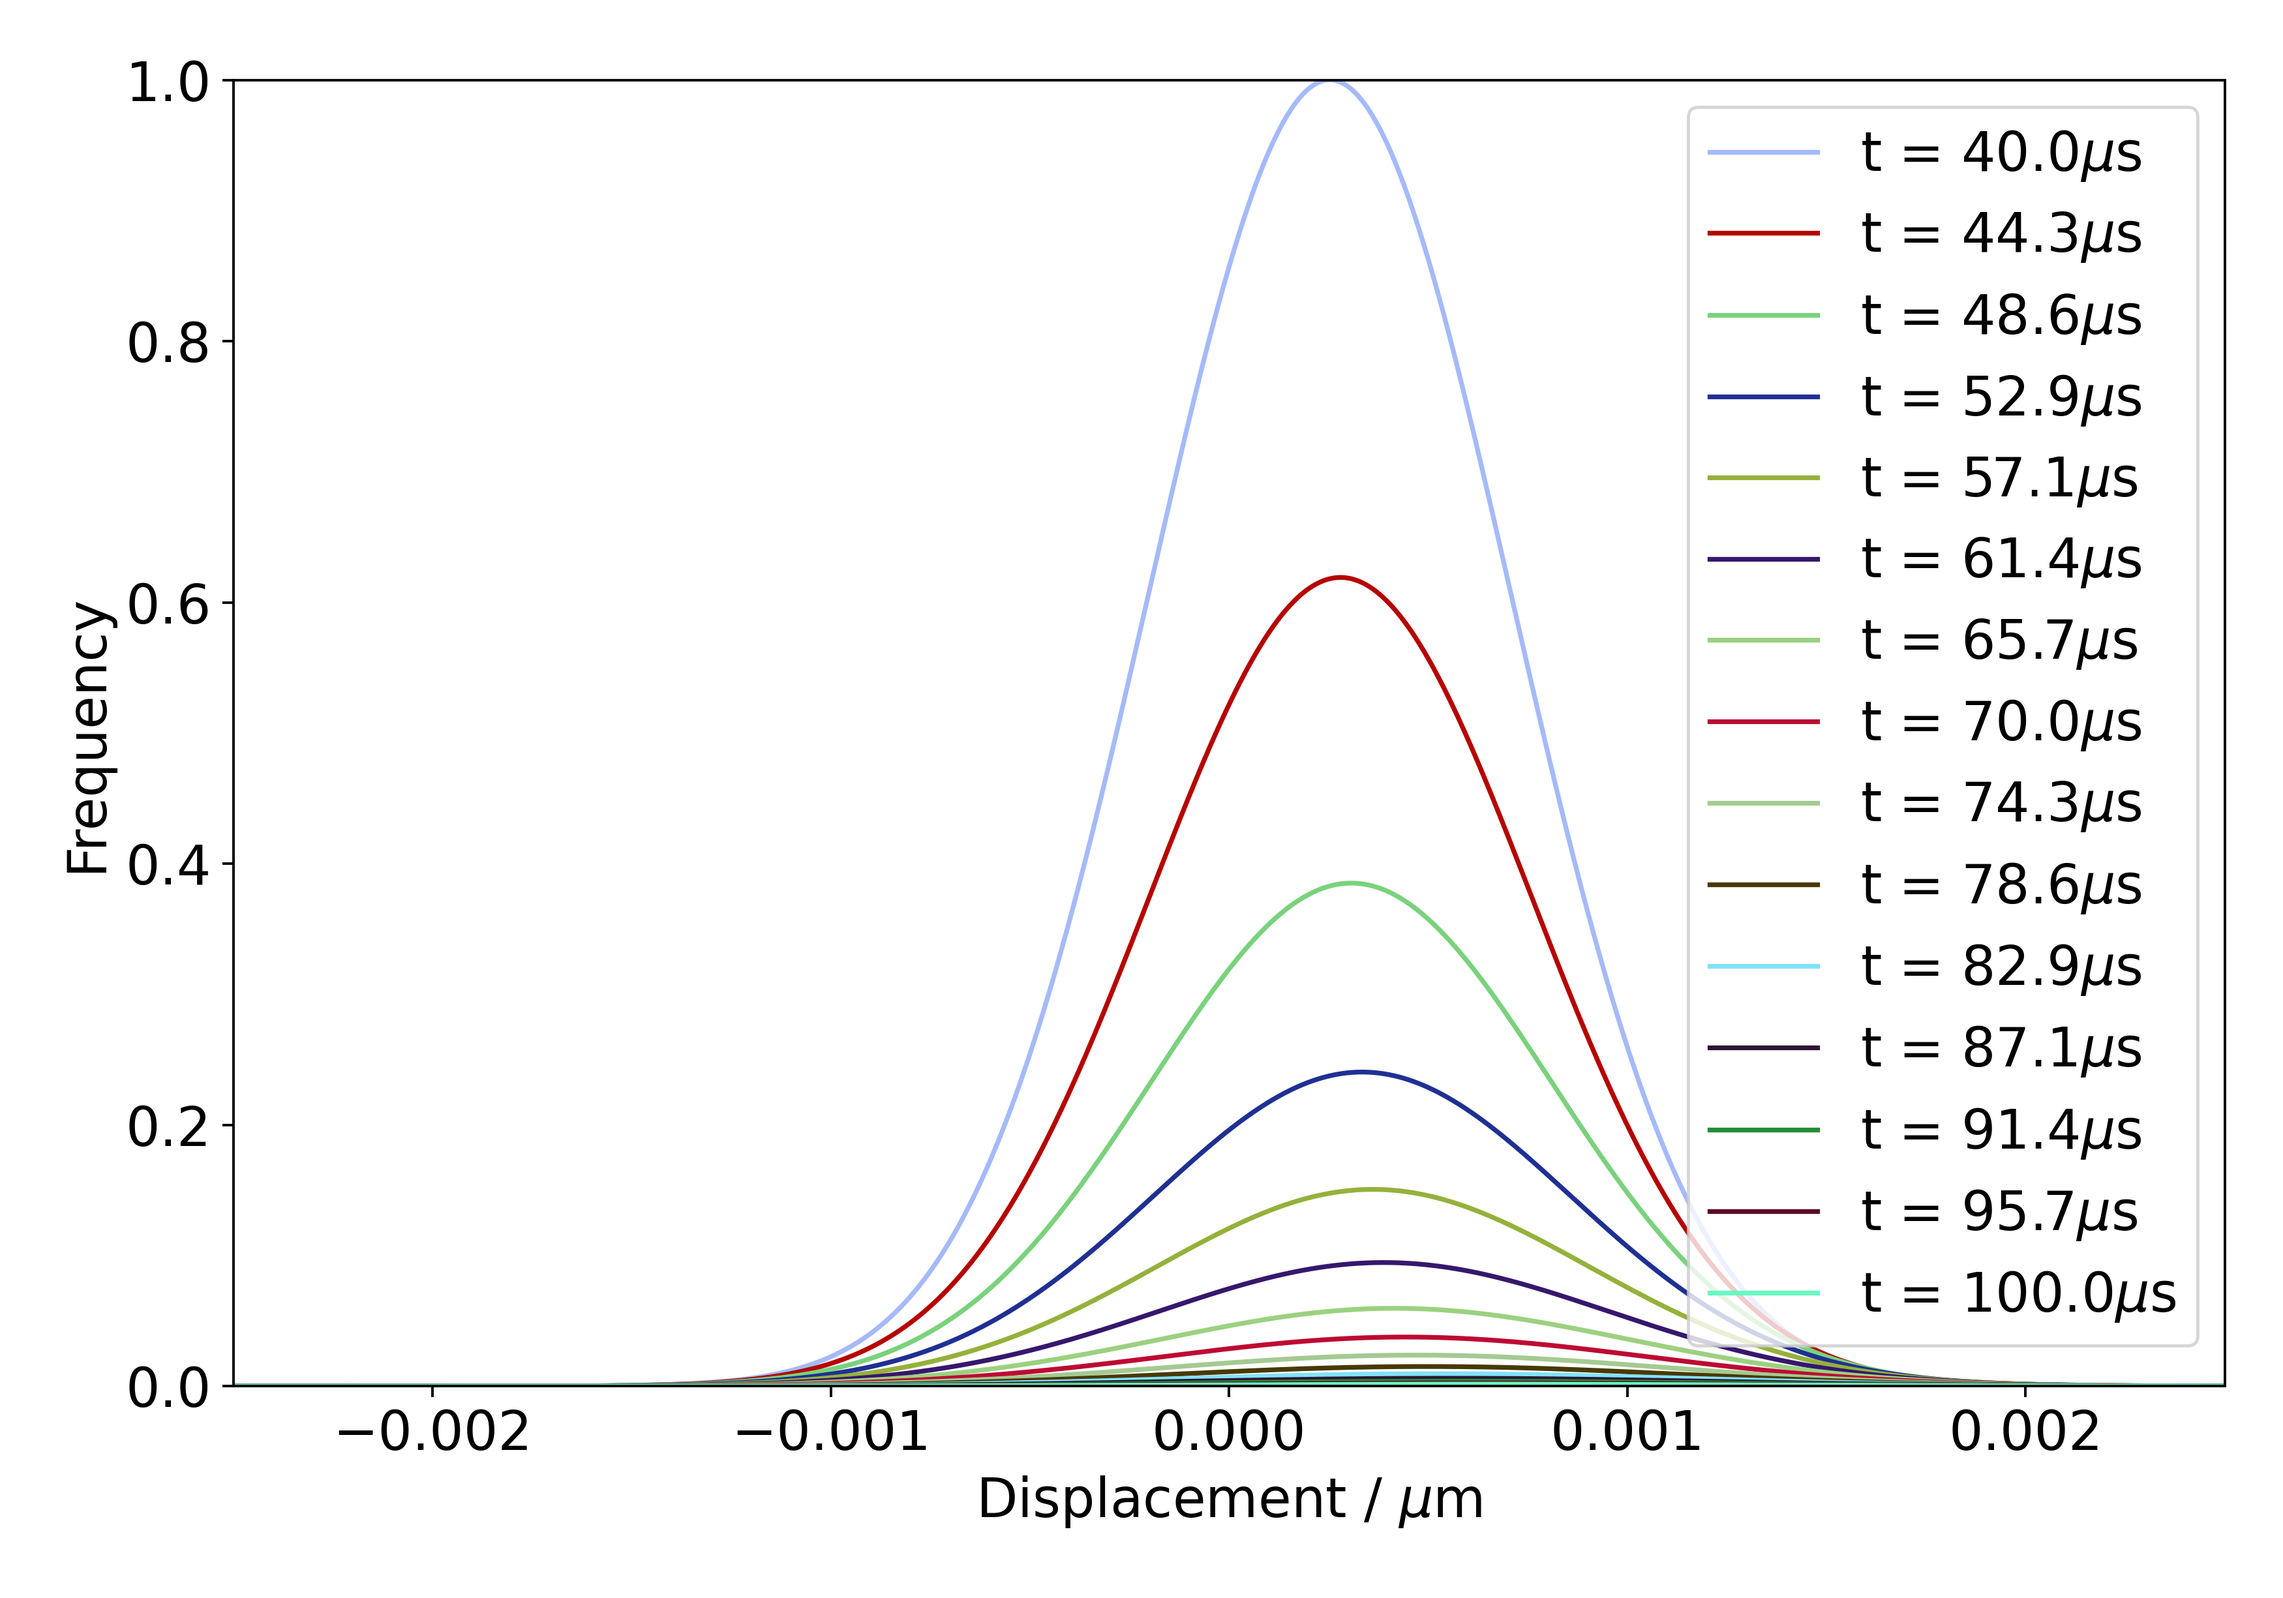
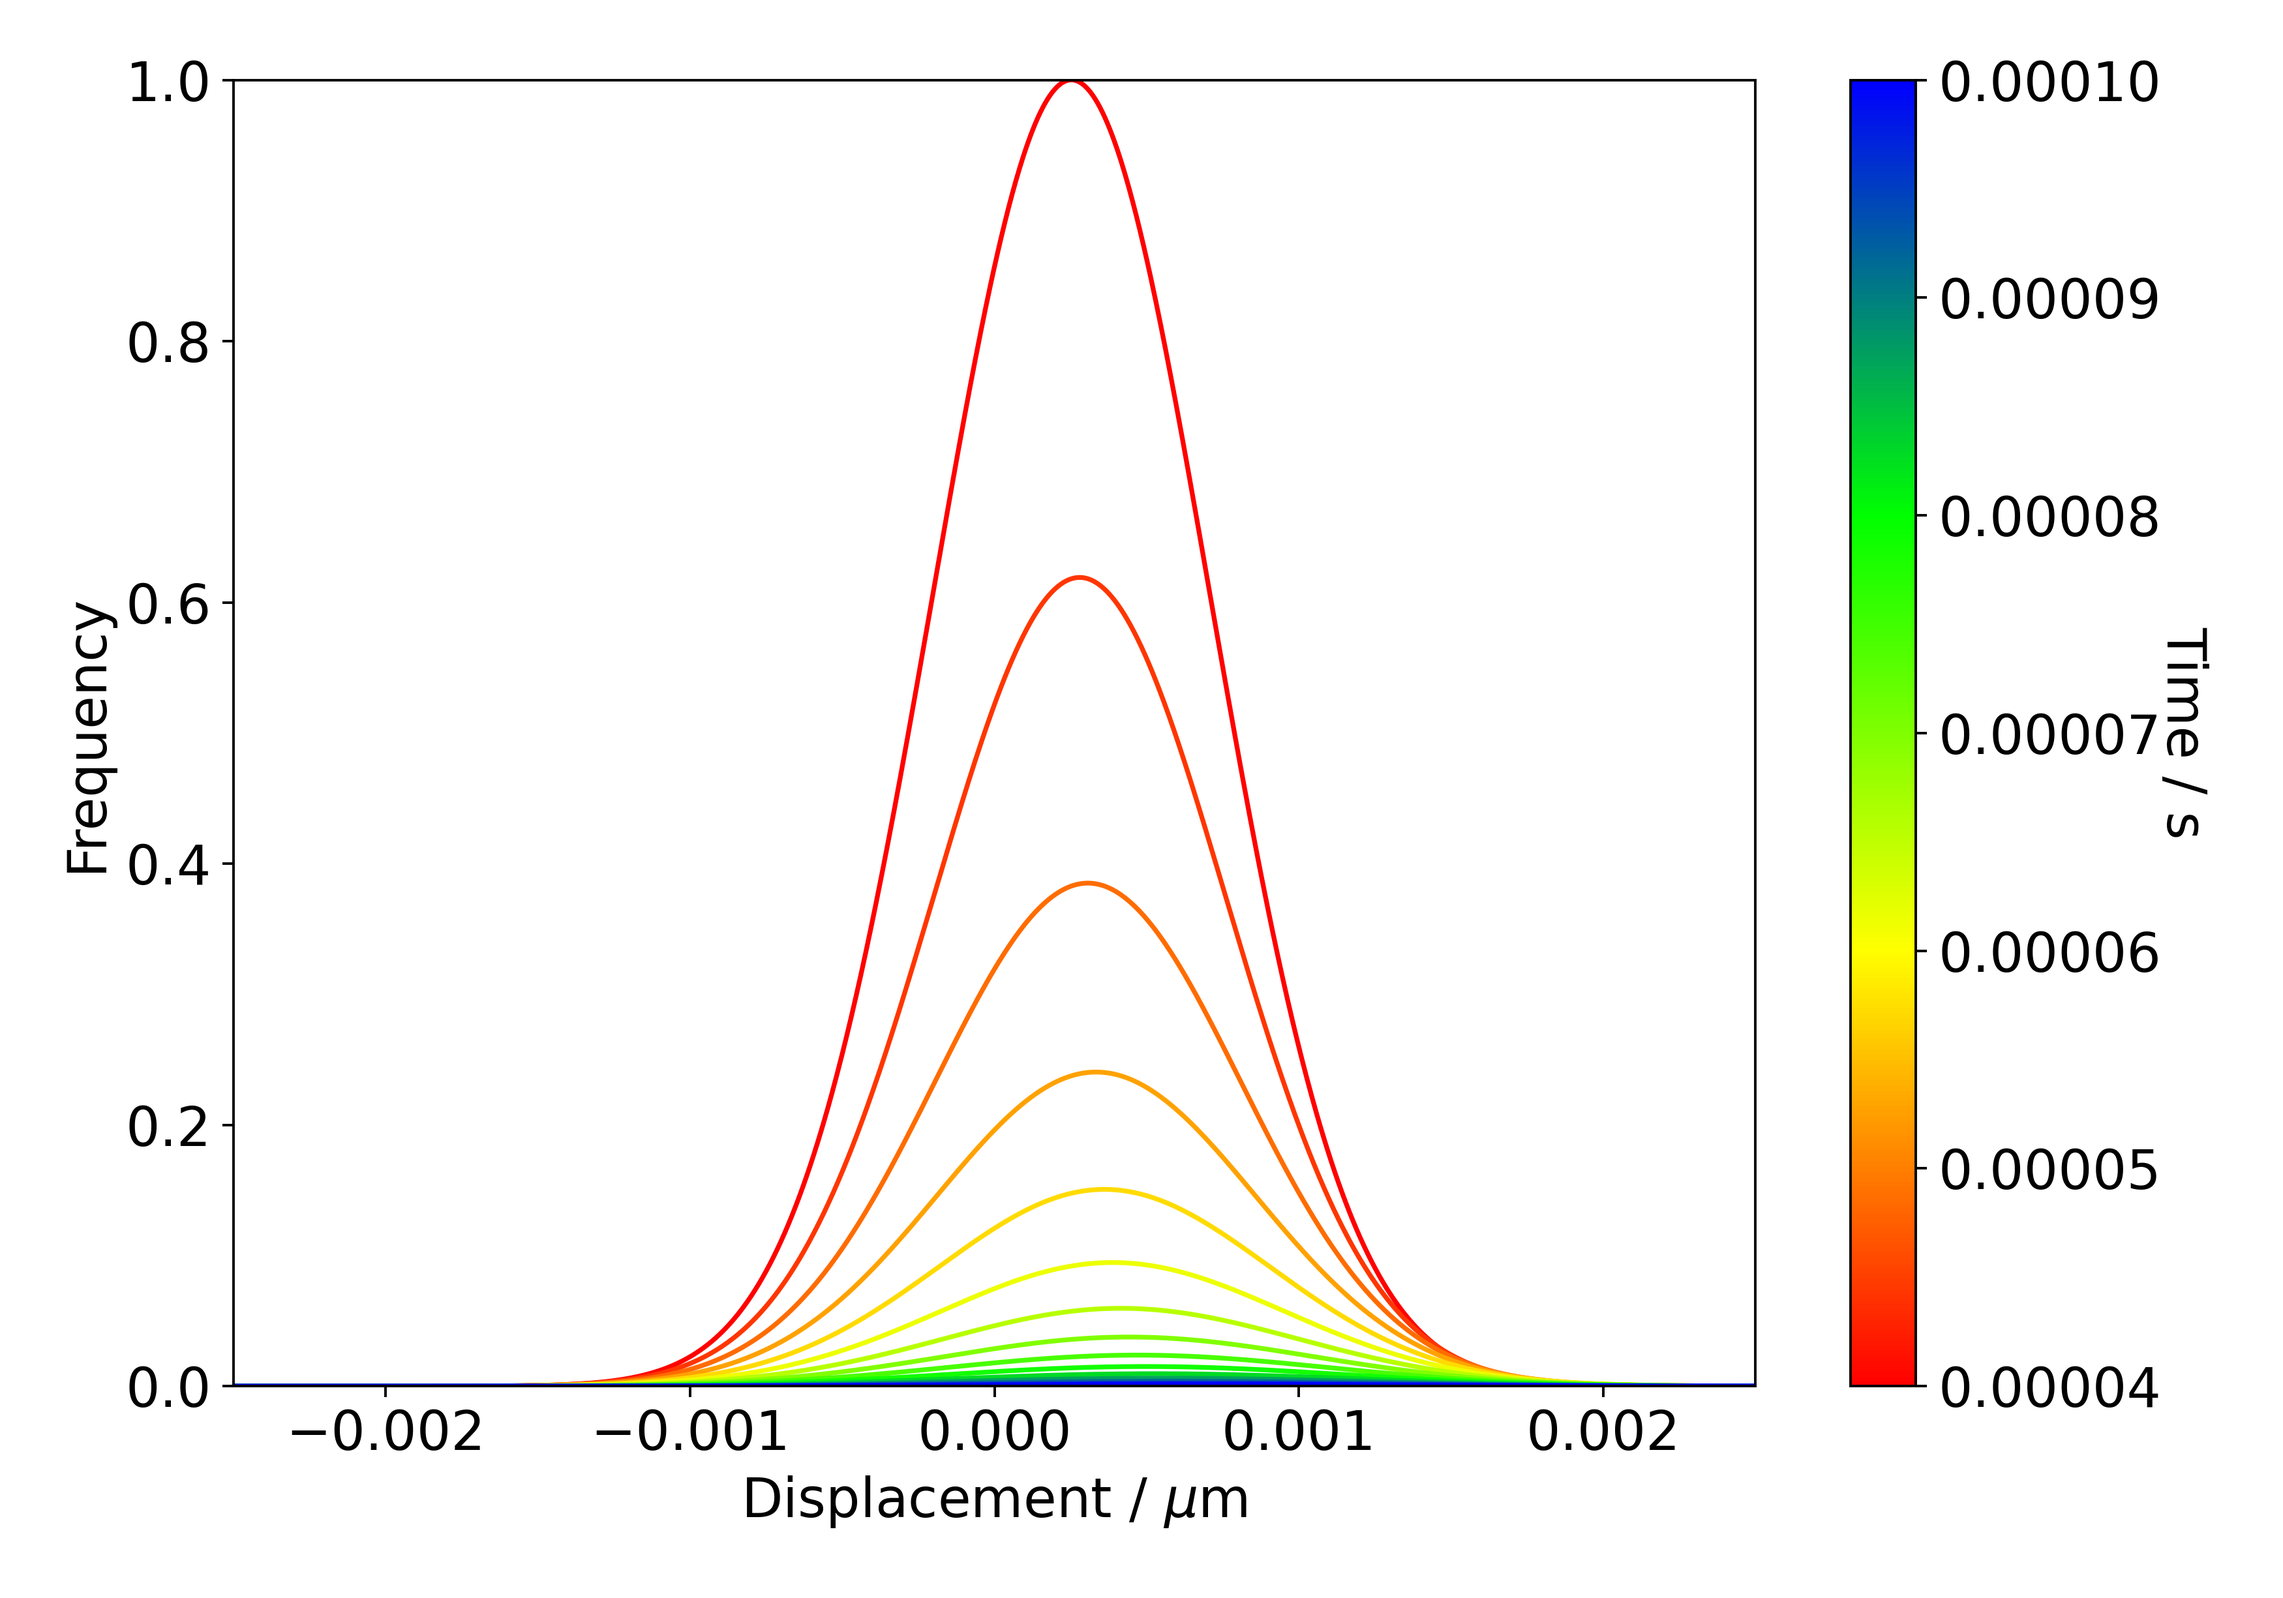
Label time with colourbar instead of label

diff --git a/src/plotter.py b/src/plotter.py
@@ -2,6 +2,8 @@
 # Date: 8/4/2023
 # Description: This file contains the Plotter class, which prodcues plots, animations, and other types of figures the user requests for in the Brains class.
 
+from matplotlib.cm import ScalarMappable
+from matplotlib.colors import LinearSegmentedColormap
 import matplotlib.pyplot as plt
 import numpy as np
 import random
@@ -131,6 +133,14 @@ class Plotter():
         )
 
 
+    def add_colourbar(self, zlist):
+        cmap = LinearSegmentedColormap.from_list("mycmap", ["#0000ff", "#00ff00", "#ffff00", "#ff0000"][::-1])
+        sm = ScalarMappable(cmap=cmap)
+        sm.set_clim(vmin=min(zlist), vmax=max(zlist))
+
+        return sm
+
+
     def plot_multiple_subplots(self, n, *args: dict, best_fit=False, best_fit_label=False): #plots multiple graphs on the same figure
         """
         Plots multiple graphs on the same figure with the given data and optional best-fit lines.
@@ -180,7 +190,7 @@ class Plotter():
         self.fig.savefig(f"plots/{self.figname}.png", dpi=350)
 
 
-    def plot_graph(self, *args: dict, labels:list=None, best_fit=False, ls="None", marker='x', xlims=None, ylims=None, best_fit_label=False): # plots multiple graphs on the same plot
+    def plot_graph(self, *args: dict, labels:list=None, best_fit=False, ls="None", marker='x', xlims=None, ylims=None, best_fit_label=False, zlist=None, zlabel=None, colourbar:bool=False): # plots multiple graphs on the same plot
         """
         Plots multiple graphs on the same plot with the given data and optional best-fit lines.
 
@@ -207,13 +217,15 @@ class Plotter():
         """
 
         for i in range(len(args)):
+            sm = self.add_colourbar(zlist) if colourbar else None
+
             self.ax.plot(
                 args[i].keys(),
                 args[i].values(),
                 ls=ls,
                 marker=marker,
                 markersize=4,
-                color=self.color,
+                color=self.color if not colourbar else sm.to_rgba(zlist[i]),
                 label=labels[i] if labels != None else None
             )
         
@@ -221,13 +233,17 @@ class Plotter():
                 self.plot_best_fit(self.ax, args[i].keys(), args[i].values(), best_fit, best_fit_label)
 
             # Generate a random color that has a contrast ratio of at least 3
-            self.color = self.generate_random_color(self.color)
+            self.color = self.generate_random_color(self.color) if not colourbar else self.color
 
         self.ax.set_xlim(xlims if xlims != None else (min(min(list(arg.keys())) for arg in args), max(max(list(arg.keys()) for arg in args)))) # set x-axis limits
         self.ax.set_ylim(ylims if ylims != None else (min(min(list(arg.values())) for arg in args), max(max(list(arg.values()) for arg in args)))) # set y-axis limits
         self.ax.set_xlabel(self.xlabel)
         self.ax.set_ylabel(self.ylabel)
-        self.ax.legend(loc=1)
+        self.ax.legend(loc=1) if labels != None else None
+
+        if colourbar:
+            cbar = self.fig.colorbar(sm)
+            cbar.set_label(zlabel, rotation=270, labelpad=15)
 
         self.fig.tight_layout()
         self.fig.savefig(f"plots/{self.figname}.png", dpi=350)

diff --git a/src/brains.py b/src/brains.py
@@ -65,16 +65,18 @@ class Brains():
 
         """
 
+        #Crating Diffusion Classes:
         self.diffusion = Diffusion("diffusion")
         self.drift = Diffusion("drift")
         self.decay = Diffusion("decay")
 
+        #Creating Random Walk Classes:
         self.random = RandomWalk("random")
         self.random_multiple = RandomWalk("random-multiple")
         self.decay_static = RandomWalk("decay-static")
         
+        #Creating Dopant Mobility and Plotter Classes:
         self.dopant_mobility = DopantMobility("dopant_mobility")
-
         self.area_vs_steps = Plotter("Number of Steps", "Integral Area", "area_vs_steps")
 
 
@@ -93,11 +95,11 @@ class Brains():
             The normalised dictionary.
         """
 
-        if isinstance(target_dict, dict):
+        if isinstance(target_dict, dict): # Returns one normalised dictionary
             dict_max = max(target_dict.values())
             return dict(zip(target_dict.keys(), [target_dict[i] / dict_max for i in target_dict.keys()]))
 
-        elif isinstance(target_dict, list):
+        elif isinstance(target_dict, list): # Returns a list of normalised dictionaries
             dict_max = max([max(target_dict[i].values()) for i in range(len(target_dict))])
             return [dict(zip(target_dict[i].keys(), [target_dict[i][j] / dict_max for j in target_dict[i].keys()])) for i in range(len(target_dict))]
 
@@ -118,6 +120,8 @@ class Brains():
         """
 
         list_steps = np.array([i for i in range(500, 2501, 500)]) # List of steps for random walk
+
+        # Creating dicts
         dict1 = self.normalise_dict(self.random.random_walk(1000, 50))
         dict2 = self.normalise_dict([dict(zip(self.random.xlist, self.diffusion.diffusion_decay_1d(self.random.xlist, tval))) for tval in self.random.tlist])
         dict3 = self.normalise_dict([self.random.random_walk(i, 55, (i/2600)*100) for i in list_steps])
@@ -126,11 +130,7 @@ class Brains():
 
         # Plotting dicts
         self.random.plot_graph(dict1, labels=["Random Walk"], best_fit="gaussian", best_fit_label=True)
-
         self.random_multiple.plot_graph(*dict3, labels=[f"Steps = {i}" for i in list_steps], ylims=(0, 1))
-
-        self.decay_static.plot_graph(*dict2, xlims=(-0.0025, 0.0025), ylims=(0, 1), marker="None", ls="-", labels=[f"t = {tval*1e6:.1f}$\mu$s" for tval in self.random.tlist])
-
+        self.decay_static.plot_graph(*dict2, xlims=(-0.0025, 0.0025), ylims=(0, 1), marker="None", ls="-", zlist=self.random.tlist, zlabel="Time / s", colourbar=True)
         self.area_vs_steps.plot_graph(dict4, marker="x", xlims=(0, 3000), ylims=(0, 100), labels=["Integral Area"], best_fit="linear")
-
         self.dopant_mobility.plot_graph(dict(zip(self.dopant_mobility.temp_list, self.dopant_mobility.mobility(self.dopant_mobility.temp_list))), xlims=(250, 400), ylims=(0, 2e3), marker="None", ls="-", labels=["Mobility"])
